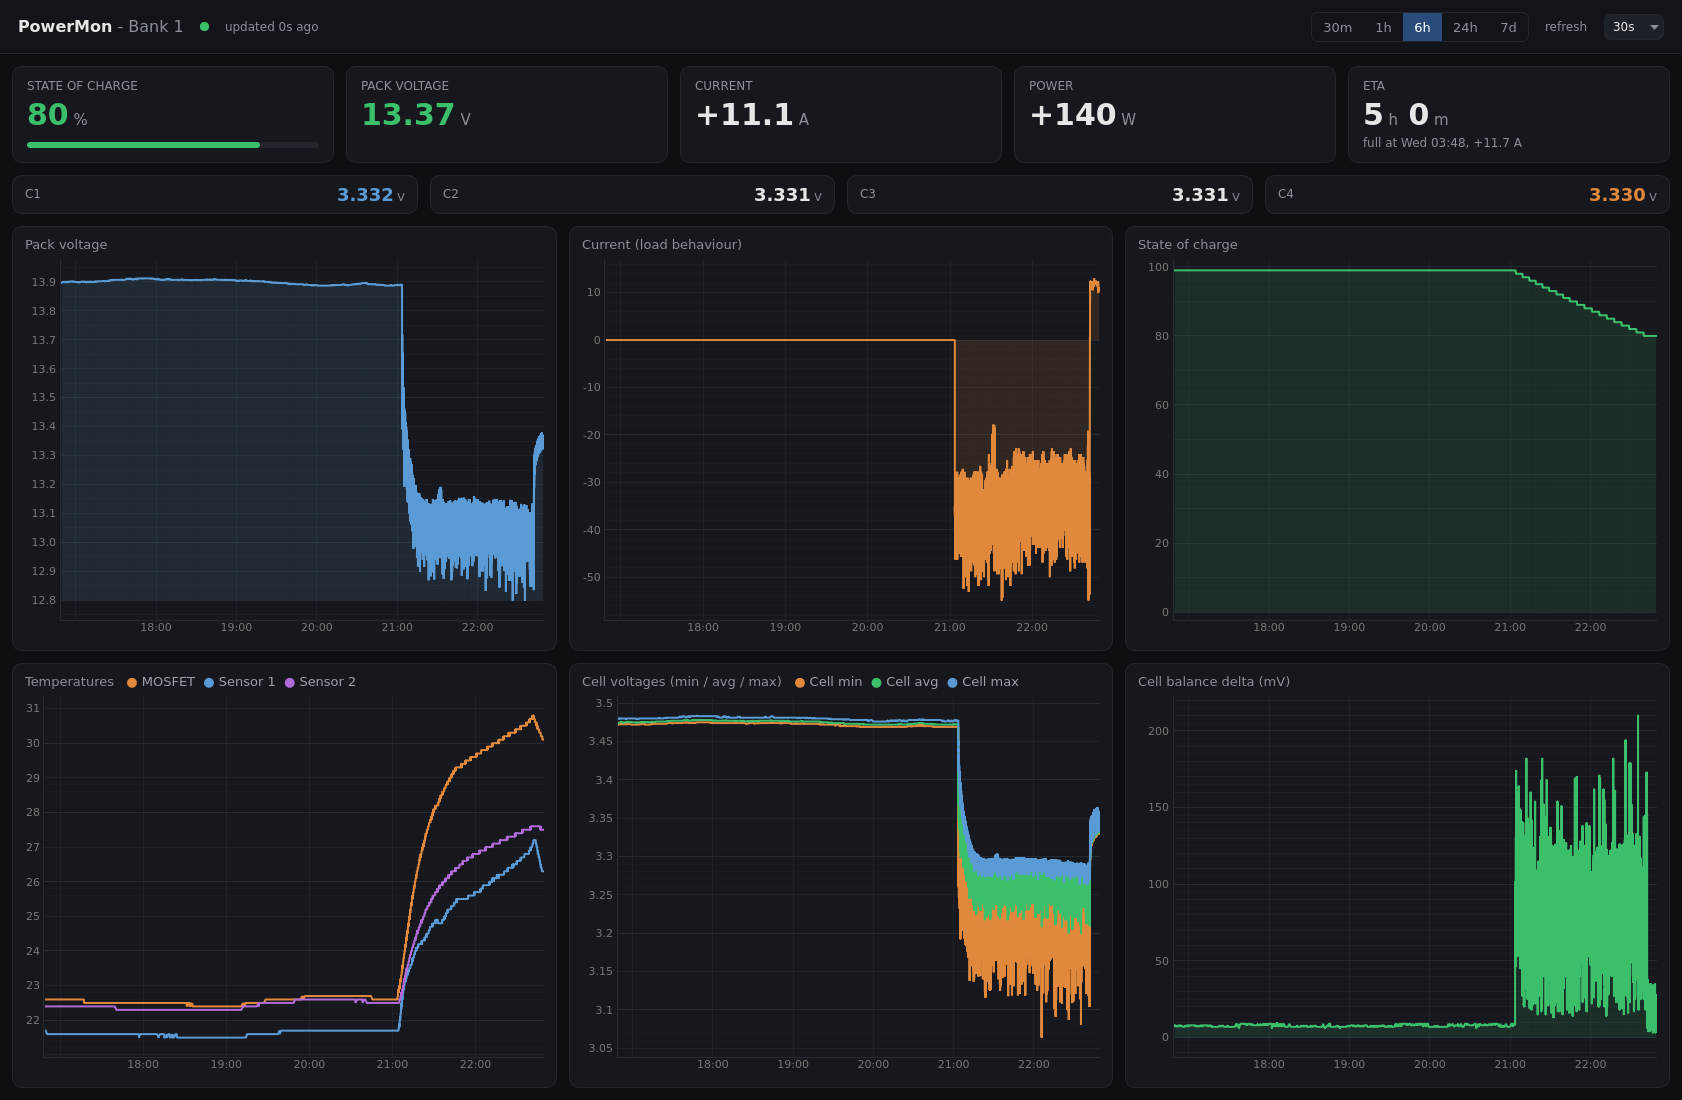
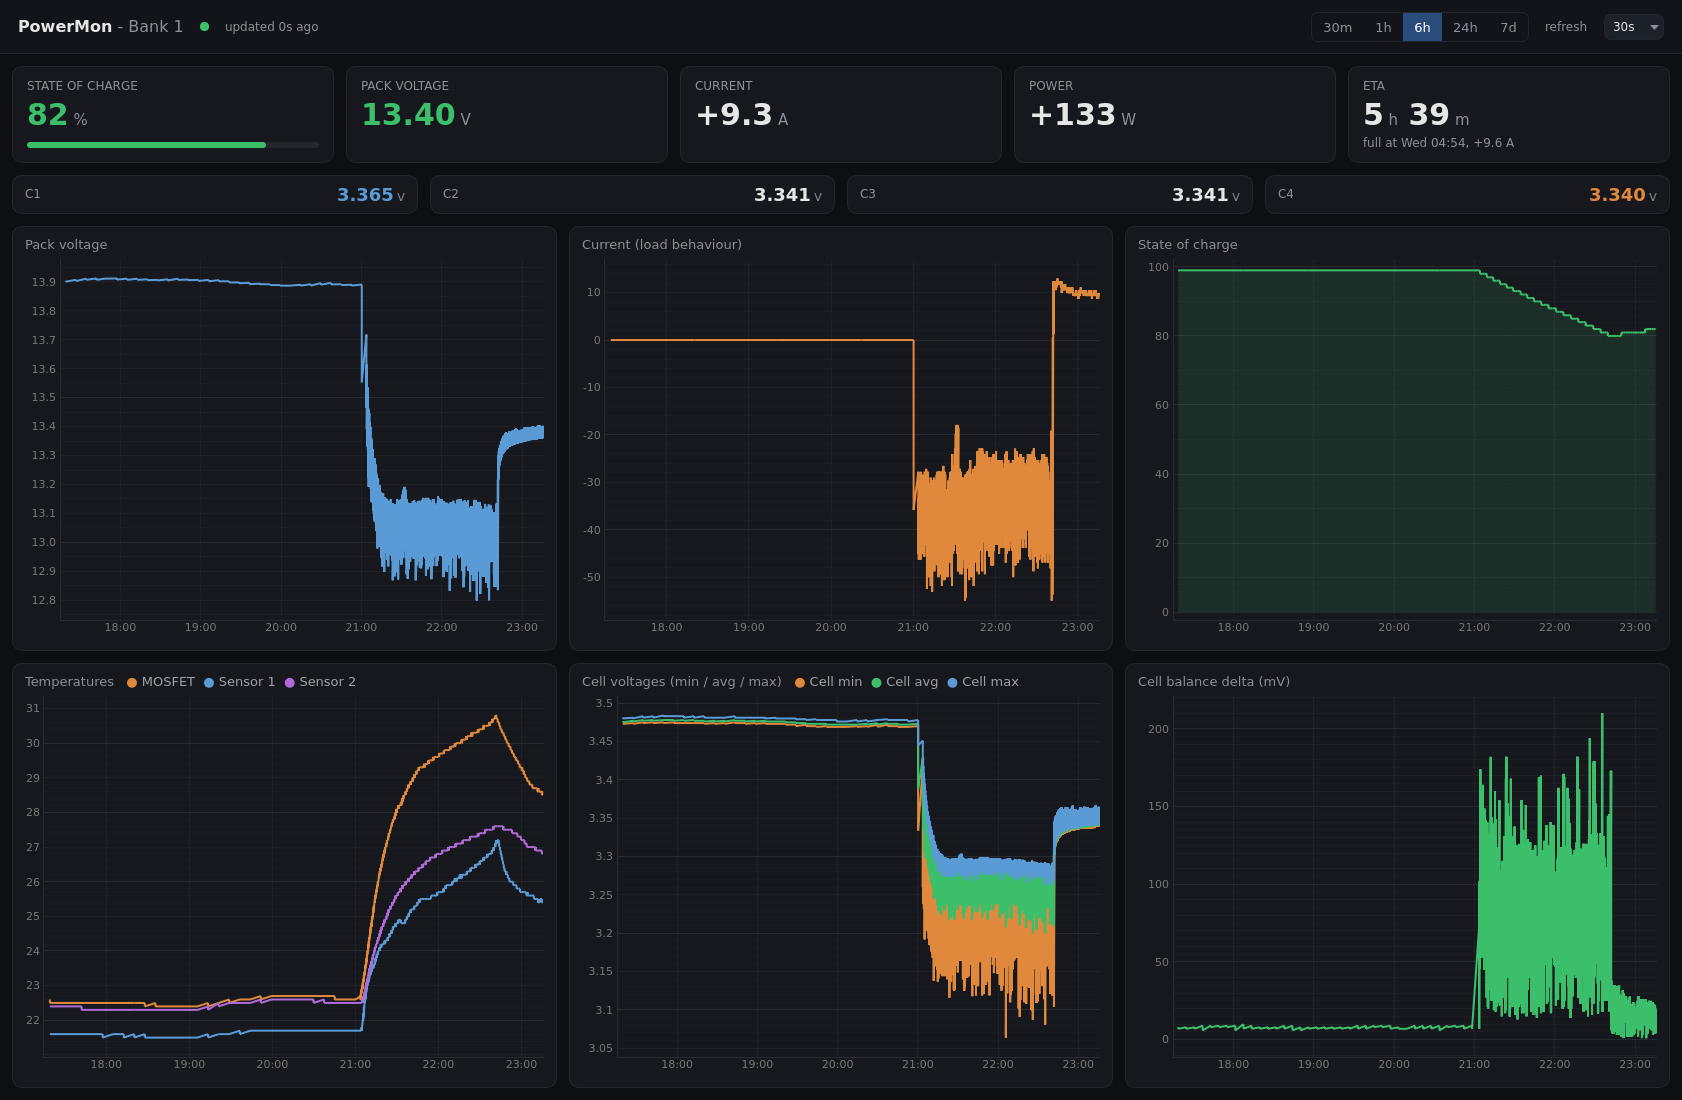
app: ~10x cheaper repaint - window resizing no longer stalls
Measured per resize frame (6h range, CPU time): ~600 ms -> ~80 ms, which is
the cost of the empty charts themselves.
- 2 px antialiased lines go through drawLines (segmentedLineMode "on")
  instead of a stroked path; flat caps so segment joints don't show as dots.
- autoDownsampleFactor 1: "peak" keeps ~2 points per pixel, not ~10;
  spikes survive, the min/max envelope is the same.
- Fill only under SoC: under the noisy series it cost ~3x per repaint.
  The delta axis keeps its zero floor via ymin.

diff --git a/app/powermon_app.py b/app/powermon_app.py
@@ -112,9 +112,10 @@ class Plot(pg.PlotWidget):
 
 class Chart:
     """A chart card: title (+ legend for several series), time axis, hover readout.
-    fill: None, 0 (to zero) or "min" (to the data minimum, keeps the axis tight)."""
-    def __init__(self, title, series, fmt="{:.2f}", fill=None, yrange=None):
-        self.series, self.fmt, self.fill, self.t, self.ys = series, fmt, fill, np.array([]), []
+    fill: shade down to zero - only for smooth series; under a noisy one it costs ~3x
+    per repaint, which makes resizing the window stutter. ymin: pin the axis bottom."""
+    def __init__(self, title, series, fmt="{:.2f}", fill=False, yrange=None, ymin=None):
+        self.series, self.fmt, self.ymin, self.t, self.ys = series, fmt, ymin, np.array([]), []
         self.frame, lay = card((12, 10, 12, 10), 6)
         legend = "" if len(series) == 1 else "&nbsp;&nbsp;&nbsp;" + "&nbsp;&nbsp;".join(
             f'<span style="color:{c}">●</span> <span style="color:#9aa0aa">{n}</span>' for n, c in series)
@@ -141,8 +142,12 @@ class Chart:
             pi.setYRange(*yrange, padding=0.02)
         self.curves = []
         for _, color in series:
-            kw = {} if fill is None else dict(fillLevel=0, brush=pg.mkBrush(color + "22"))
-            self.curves.append(pi.plot([], [], pen=pg.mkPen(color, width=2), connect="finite", **kw))
+            kw = dict(fillLevel=0, brush=pg.mkBrush(color + "22")) if fill else {}
+            pen = pg.mkPen(color, width=2)
+            pen.setCapStyle(Qt.FlatCap)        # segment ends don't overlap into bright dots
+            # autoDownsampleFactor 1: "peak" keeps ~2 points per pixel (default 5 -> ~10)
+            self.curves.append(pi.plot([], [], pen=pen, connect="finite",
+                                       autoDownsampleFactor=1.0, **kw))
         self.vline = pg.InfiniteLine(angle=90, pen=pg.mkPen("#555", width=1))
         self.tip = pg.TextItem(fill=pg.mkBrush("#1d2128e6"), border=pg.mkPen(LINE))
         for item in (self.vline, self.tip):
@@ -155,8 +160,9 @@ class Chart:
         self.t, self.ys = t, ys
         for curve, y in zip(self.curves, ys):
             curve.setData(t, y)
-            if self.fill == "min" and np.isfinite(y).any():
-                curve.setFillLevel(float(np.nanmin(y)))
+        top = max((np.nanmax(y) for y in ys if np.isfinite(y).any()), default=None)
+        if self.ymin is not None and top is not None:
+            self.pi.setYRange(self.ymin, max(top, self.ymin + 1), padding=0.05)
         if len(t):
             self.pi.setXRange(t[0], t[-1], padding=0)
         self.unhover()
@@ -272,14 +278,14 @@ class Main(QMainWindow):
         grid = QGridLayout()
         grid.setSpacing(12)
         self.ch = {
-            "v": Chart("Pack voltage", [("Pack V", C["v"])], "{:.3f} V", fill="min"),
-            "a": Chart("Current (load behaviour)", [("Current", C["a"])], "{:+.2f} A", fill=0),
-            "soc": Chart("State of charge", [("SoC", C["soc"])], "{:.0f} %", fill=0, yrange=(0, 100)),
+            "v": Chart("Pack voltage", [("Pack V", C["v"])], "{:.3f} V"),
+            "a": Chart("Current (load behaviour)", [("Current", C["a"])], "{:+.2f} A"),
+            "soc": Chart("State of charge", [("SoC", C["soc"])], "{:.0f} %", fill=True, yrange=(0, 100)),
             "t": Chart("Temperatures", [("MOSFET", C["mos"]), ("Sensor 1", C["t1"]),
                                         ("Sensor 2", C["t2"])], "{:.1f} °C"),
             "cells": Chart("Cell voltages (min / avg / max)", [("Cell min", C["cmin"]),
                            ("Cell avg", C["cavg"]), ("Cell max", C["cmax"])], "{:.3f} V"),
-            "d": Chart("Cell balance delta (mV)", [("Delta", C["d"])], "{:.0f} mV", fill=0),
+            "d": Chart("Cell balance delta (mV)", [("Delta", C["d"])], "{:.0f} mV", ymin=0),
         }
         for i, c in enumerate(self.ch.values()):
             grid.addWidget(c.frame, i // 3, i % 3)
@@ -383,7 +389,8 @@ def main():
     app.setDesktopFileName("powermon")
     app.setWindowIcon(QIcon(os.path.join(HERE, "powermon.svg")))
     app.setStyleSheet(QSS)
-    pg.setConfigOptions(antialias=True)
+    # 2 px antialiased lines drawn as segments, not as a stroked path: ~10x cheaper repaint
+    pg.setConfigOptions(antialias=True, segmentedLineMode="on")
     w = Main()
     w.show()
     sys.exit(app.exec())
